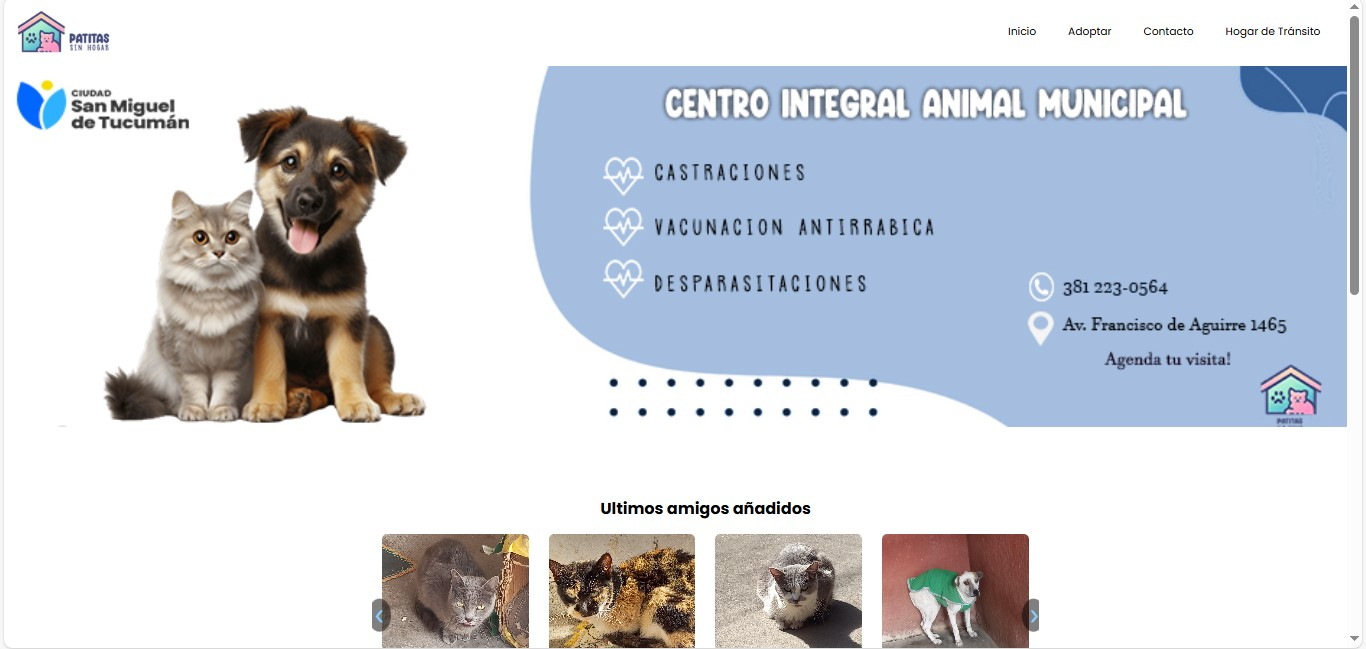
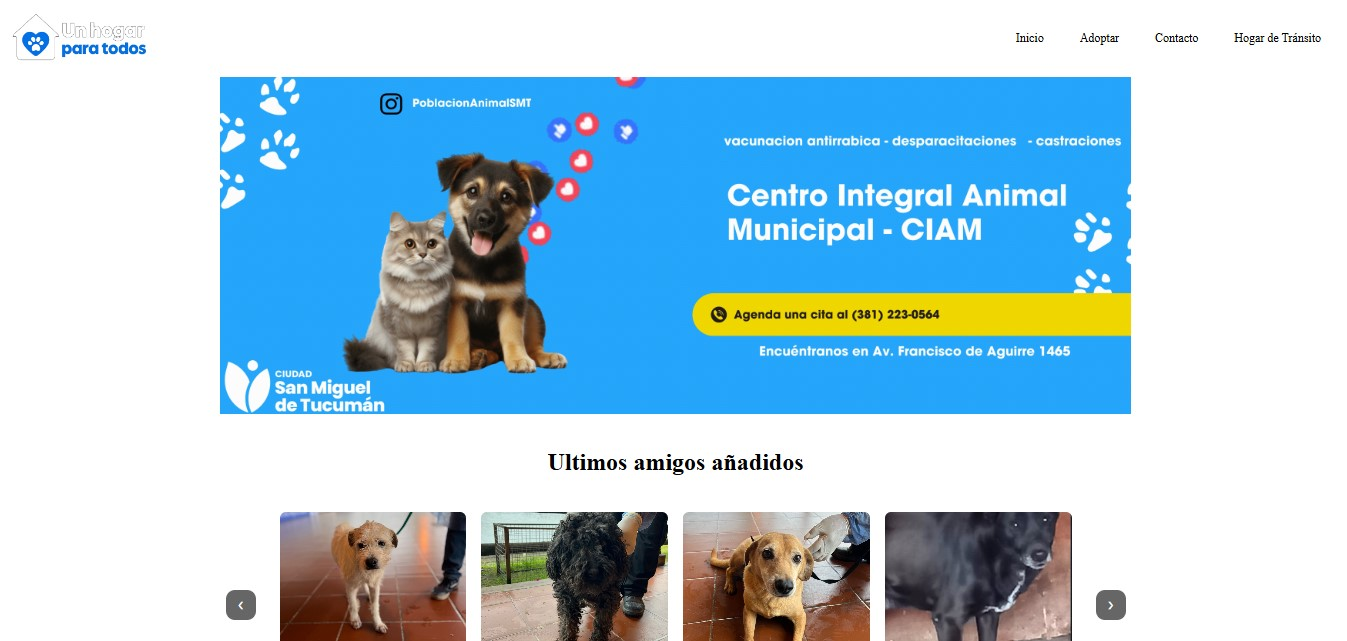
Actualizacion

diff --git a/src/components/Projects.jsx b/src/components/Projects.jsx
@@ -19,11 +19,11 @@ const Projects = () => {
       ],
     },
     {
-      title: "Patitas Sin Hogar",
+      title: "Hogar Para Todos",
       description:
         "Collaborative project to help shelters with the adoption of animals in San Miguel de Tucumán. It has a CRUD, Contact, and a Transit Home section",
       image: "/images/proyecto2.jpg",
-      github: "https://github.com/gonnngonn/app/tree/main/patitas-app",
+      demo: "https://adopcionresponsable.smt.gob.ar",
       technologies: [
         "React",
         "Node.js",
@@ -32,6 +32,14 @@ const Projects = () => {
         "Cloudinary",
         "MySQL",
       ],
+    },
+    {
+      title: "Amanecer Software",
+      description:
+        "Freelance job developing softwares, aplications, web sites, etc.",
+      image: "/images/proyecto3.jpg",
+      demo: "https://amanecersoftware.com",
+      technologies: ["React", "HTML", "CSS", "JavaScript", "Tailwind"],
     },
   ];
 
@@ -46,7 +54,10 @@ const Projects = () => {
           {projects.map((project, index) => (
             <div
               key={index}
-              className="bg-white rounded-xl shadow-lg overflow-hidden group hover:shadow-xl transition-all duration-300"
+              className="bg-white rounded-xl shadow-lg overflow-hidden group hover:shadow-xl transition-all duration-300 cursor-pointer"
+              onClick={() =>
+                window.open(project.demo || project.github, "_blank")
+              }
             >
               <div className="aspect-video relative overflow-hidden">
                 <img
@@ -55,10 +66,15 @@ const Projects = () => {
                   className="w-full h-full object-cover transform group-hover:scale-105 transition-transform duration-300"
                 />
                 <div className="absolute inset-0 bg-gradient-to-t from-black/60 to-transparent opacity-0 group-hover:opacity-100 transition-opacity duration-300" />
+
+                {/* Indicador visual de que es clickeable */}
+                <div className="absolute top-4 right-4 bg-white/20 backdrop-blur-sm rounded-full p-2 opacity-0 group-hover:opacity-100 transition-opacity duration-300">
+                  <ExternalLink size={16} className="text-white" />
+                </div>
               </div>
 
               <div className="p-6">
-                <h3 className="text-2xl font-bold mb-3 text-gray-800">
+                <h3 className="text-2xl font-bold mb-3 text-gray-800 group-hover:text-blue-600 transition-colors">
                   {project.title}
                 </h3>
                 <p className="text-gray-600 mb-4">{project.description}</p>
@@ -77,25 +93,27 @@ const Projects = () => {
                 </div>
 
                 <div className="flex gap-4">
-                  <a
-                    href={project.github}
-                    target="_blank"
-                    rel="noopener noreferrer"
+                  <button
+                    onClick={(e) => {
+                      e.stopPropagation(); // Evita que se active el click de la card
+                      window.open(project.github, "_blank");
+                    }}
                     className="flex items-center gap-2 text-gray-700 hover:text-blue-600 transition-colors"
                   >
                     <Github size={20} />
                     <span>Code</span>
-                  </a>
+                  </button>
                   {project.demo && (
-                    <a
-                      href={project.demo}
-                      target="_blank"
-                      rel="noopener noreferrer"
+                    <button
+                      onClick={(e) => {
+                        e.stopPropagation(); // Evita que se active el click de la card
+                        window.open(project.demo, "_blank");
+                      }}
                       className="flex items-center gap-2 text-gray-700 hover:text-blue-600 transition-colors"
                     >
                       <ExternalLink size={20} />
-                      <span>Demo</span>
-                    </a>
+                      <span>Link</span>
+                    </button>
                   )}
                 </div>
               </div>

diff --git a/src/components/Experience.jsx b/src/components/Experience.jsx
@@ -12,9 +12,15 @@ const Experience = () => {
       description: "Database management",
     },
     {
+      title: "Freelance Developer",
+      company: "Amanecer Software",
+      period: "Present",
+      description: "Fullstack Developer",
+    },
+    {
       title: "English Tutor",
       period: "2023 - 2024",
-      description: "For kids and teens",
+      description: "Kids, teens and adults",
     },
   ];
 

diff --git a/src/components/Hero.jsx b/src/components/Hero.jsx
@@ -18,7 +18,7 @@ const Hero = () => {
         <h1 className="text-6xl font-bold mb-4">
           Gonzalo Benjamín Albornoz Gamboa
         </h1>
-        <p className="text-2xl">Software Developer, 21 Years</p>
+        <p className="text-2xl">Software Developer, 22 Years</p>
       </div>
     </section>
   );

diff --git a/src/components/Skills.jsx b/src/components/Skills.jsx
@@ -14,6 +14,7 @@ const Skills = () => {
         "Express",
         "MongoDB",
         "SQL",
+        "AWS",
         "RESTful APIs",
         "MySQL Server",
       ],
